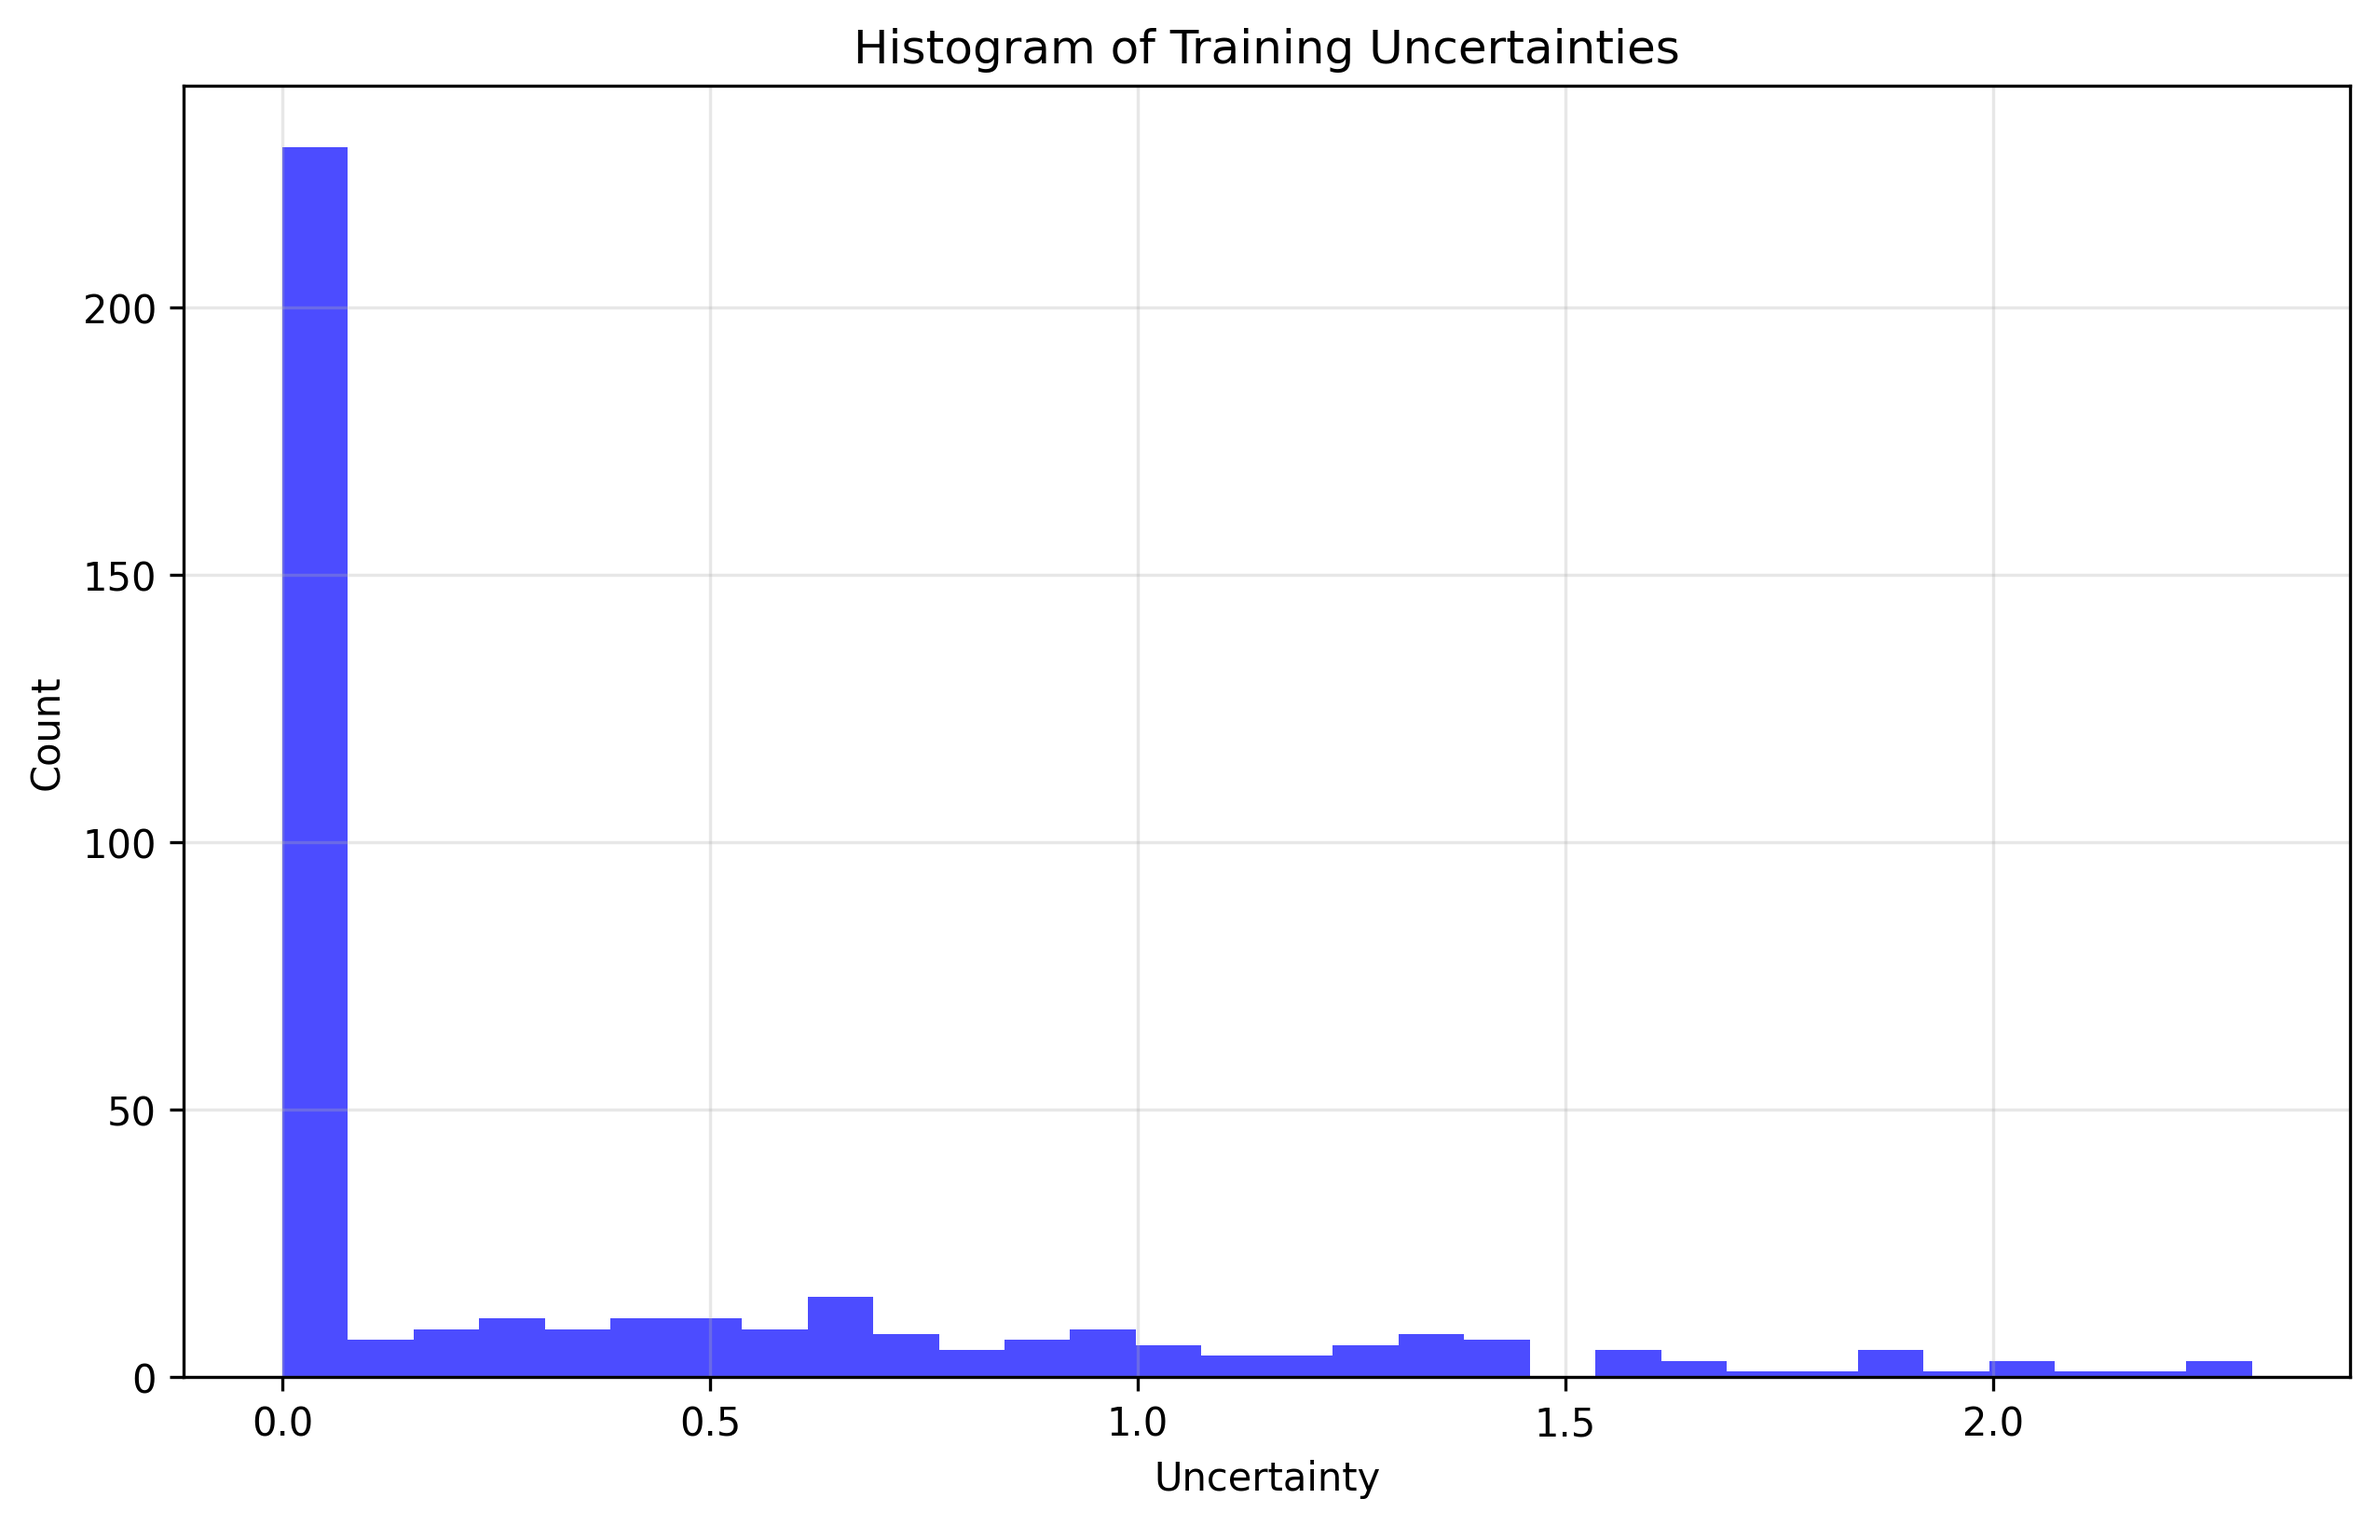
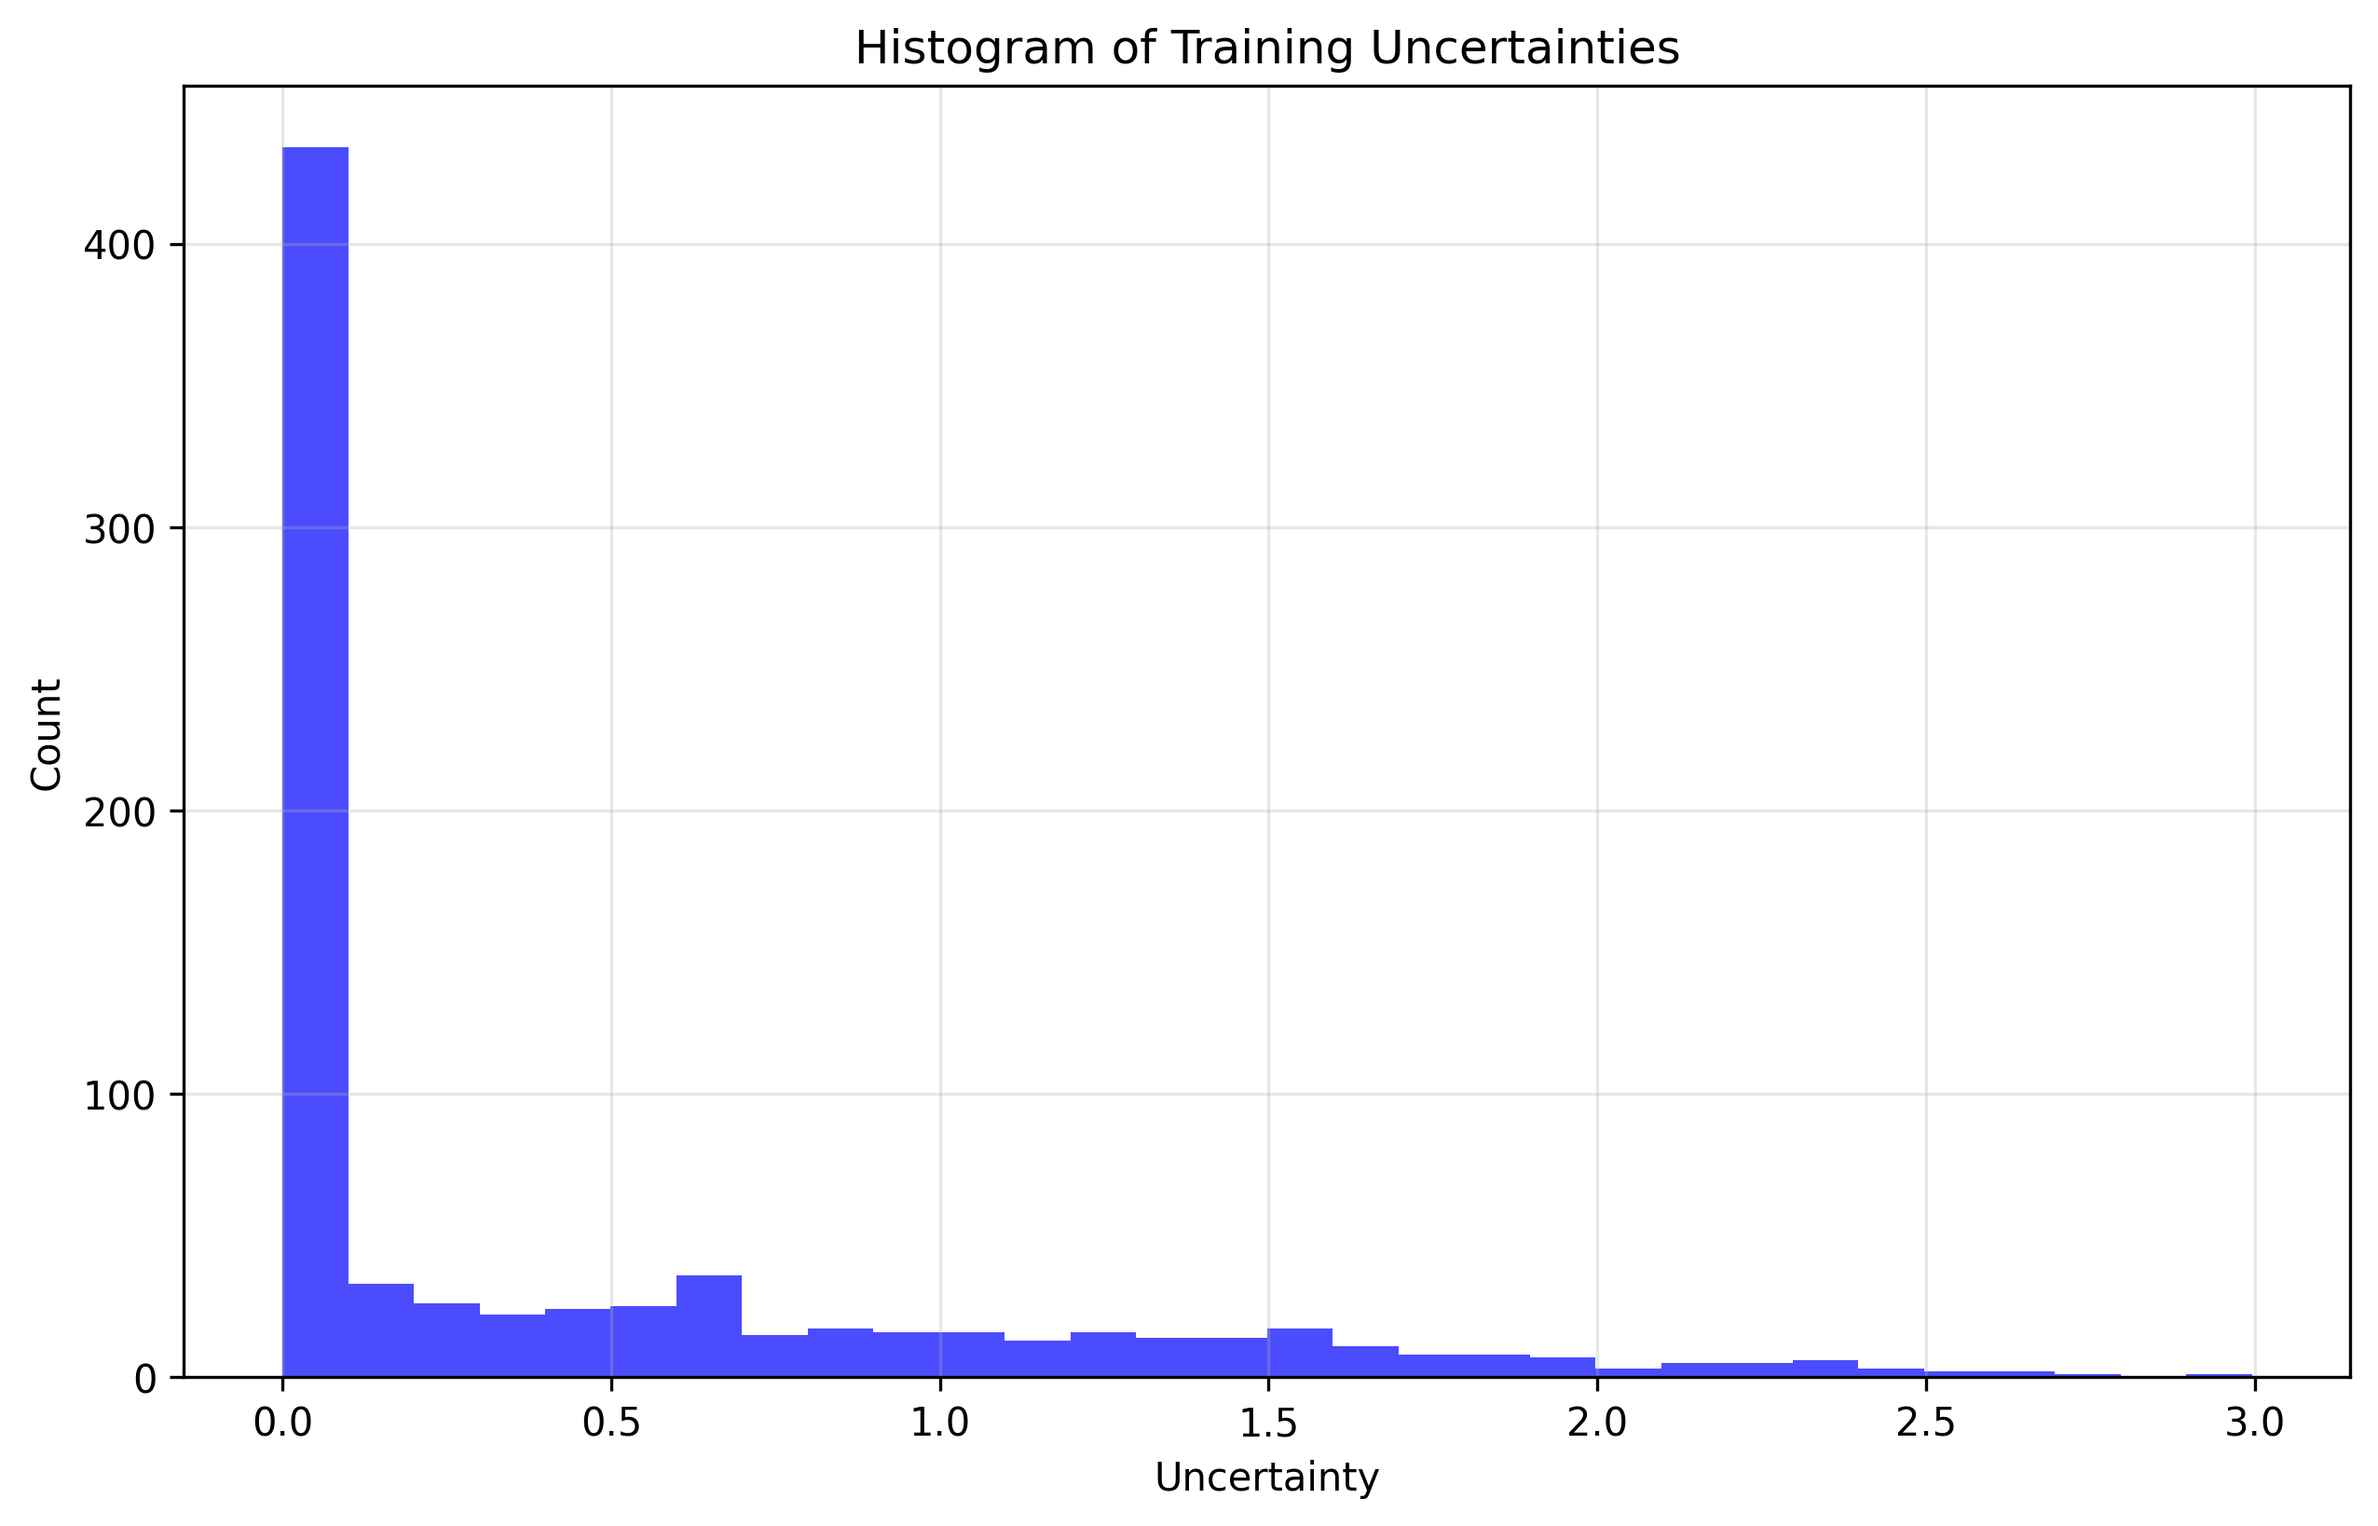
scaled up

diff --git a/semantic_uncertainty/uncertainty/utils/utils.py b/semantic_uncertainty/uncertainty/utils/utils.py
@@ -53,7 +53,7 @@ def get_parser(stages=['generate', 'compute']):
             choices=['trivia_qa', 'squad', 'bioasq', 'nq', 'svamp'],
             help="Dataset to use to assemble few-shot prompt, p_true prompt, and train p_ik.")
         parser.add_argument(
-            "--num_samples", type=int, default=400,
+            "--num_samples", type=int, default=800, # default=400,
             help="Number of samples to use")
         parser.add_argument(
             "--num_few_shot", type=int, default=5,
@@ -66,7 +66,7 @@ def get_parser(stages=['generate', 'compute']):
             action=argparse.BooleanOptionalAction,
             help="Get generations for training set?")
         parser.add_argument(
-            "--num_generations", type=int, default=10,
+            "--num_generations", type=int, default=20, # default=10,
             help="Number of generations to use")
         parser.add_argument(
             "--temperature", type=float, default=1.0,

diff --git a/semantic_uncertainty/example_evaluation.py b/semantic_uncertainty/example_evaluation.py
@@ -1,5 +1,5 @@
 # Fill in the wandb_id assigned to your demo run!
-wandb_id = 'YOUR_ID' # 'shnqvuth' # '98t86157' # 'cl5di0zd' # 'mm4mty1d' # '7jxdj7ke' # 'kf0i33ha' # 'x1wlw3o1' # 'l5repq2v' # 'tgjvxqy5' # 'gokknvd3' # 'xi0fw660' # 'qq4wfsfc' # 'bydbd6hl' # 'YOUR_ID'
+wandb_id = 'YOUR_ID' # 'qztde7ac' # 'hp4uht76' # '419mrddr' # 'rxb5b5pz' # 'shnqvuth' # '98t86157' # 'cl5di0zd' # 'mm4mty1d' # '7jxdj7ke' # 'kf0i33ha' # 'x1wlw3o1' # 'l5repq2v' # 'tgjvxqy5' # 'gokknvd3' # 'xi0fw660' # 'qq4wfsfc' # 'bydbd6hl' # 'YOUR_ID'
 if wandb_id == 'YOUR_ID':
     raise ValueError('Need to provide wandb_id of demo run!')
 

diff --git a/semantic_uncertainty/compute_uncertainty_measures.py b/semantic_uncertainty/compute_uncertainty_measures.py
@@ -73,7 +73,7 @@ def isotonic_recalibrator(U, A):
         x = np.clip(x, x_min, x_max)
         return x
 
-    # Piecewise-constant regression with 10 bins 
+    # Piecewise-constant regression with uniform bins 
     plr_pipeline = Pipeline([
         ('binning', KBinsDiscretizer(n_bins=7, encode='onehot', strategy='uniform')), # 10, 'quantile'
         ('regressor', LinearRegression(fit_intercept=True))
